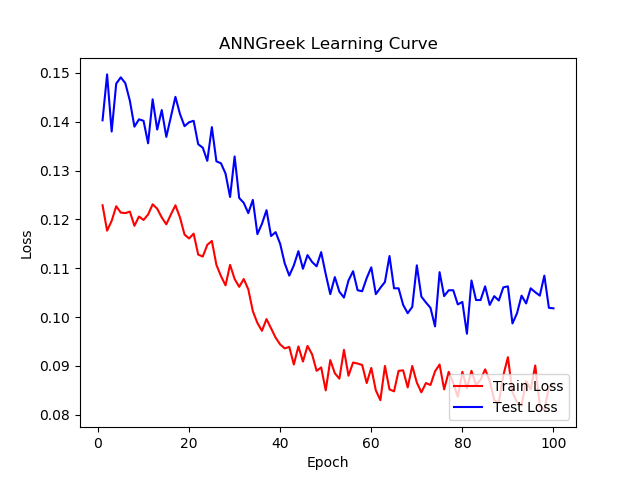
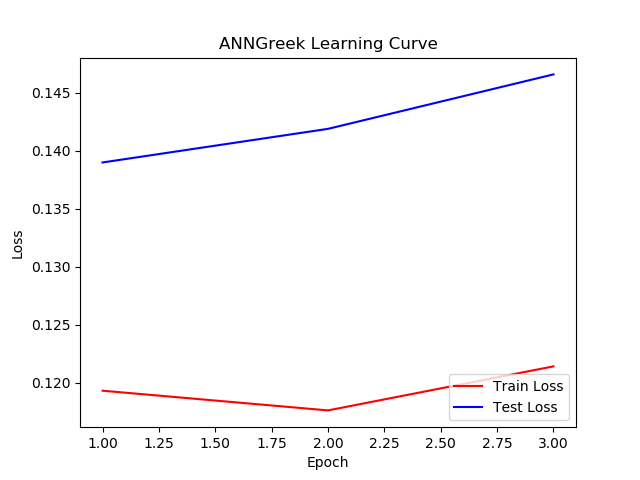
Reworked init and plot. Modules now can store training parameters.

diff --git a/Applications/power_GEF_14/top_level.py b/Applications/power_GEF_14/top_level.py
@@ -3,6 +3,7 @@ import torch
 import torchvision.datasets as tdata
 import torchvision.transforms as tTrans
 import os
+import copy
 import torch.nn as nn
 import numpy as np
 
@@ -17,9 +18,27 @@ from  Solvers import sgd
 from Datasets import GEF_Power
 from Architecture import MLR, ann_forward, ann_greek
 from Tools import trainer
-print("Hello from power_GEF_14!")
 
-def init(model = None, quantiles = [0.9], device = "cpu", trainDataRange = [0, 76799], testDataRange = [76800, 0], batchSize = 1000):
+# ================================================================================================================
+# Start of Functions
+# ================================================================================================================
+
+def init_optim(modelParams, optimParams = dict(name="SGD", params=dict(lr=0.1,momnt=0.5,wDecay=0.9))):
+
+    # Initialize the optimizer Template with the parameters of
+    if optimParams["name"] == "SGD":
+        optimTemplate = sgd.SGD(modelParams, weight_decay = optimParams["params"]["wDecay"][0],
+                                lr=optimParams["params"]["lr"][0], momentum=optimParams["params"]["momnt"][0])
+    else:
+        optimTemplate = sgd.SGD(modelParams, weight_decay = optimParams["params"]["wDecay"][0],
+                                lr=optimParams["params"]["lr"][0], momentum=optimParams["params"]["momnt"][0])
+
+    return optimTemplate
+
+# End of init_optim
+#-----------------------------------------------------------------------------------------------------
+
+def init(model = None, optimParams = dict(name="SGD", params=dict(lr=0.1,momnt=0.5,wDecay=0.9)), quantiles = [0.9], device = "cpu", trainDataRange = [0, 76799], testDataRange = [76800, 0], batchSize = 1000):
     ''' Description: This function handles the model creation with the chosen parameters and
                      the data loading with chosen batch size and train/test split.  
 
@@ -34,19 +53,33 @@ def init(model = None, quantiles = [0.9], device = "cpu", trainDataRange = [0, 7
     # Architecture specifics ------------------------------------------------------
 
     # Model Declaration 
+    # Generate as many models as there are parameters.
+    models = []
+    # Rename the parameter lists, loccaly, for ease of use.
+    lrs     = optimParams['params']['lr']
+    momnts  = optimParams['params']['momnt']
+    wDecays = optimParams['params']['wDecay']
+    # Compute the total num of models. Might be usefull.
+    numOfModels = len(lrs)*len(momnts)*len(wDecays)
     outputSize = len(quantiles)
-    print("Creating Model: {} at device: {}" .format(model, device))
-    if model == "ANNGreek":
-        model = ann_greek.ANNGreek(59, outputSize).to(device)
-    elif model == "MLRBIU":
-        model = ann_forward.ANNLFS().to(device)
-    elif model == "MRLSimple": 
-        model = MLR.LinearRegression(25).to(device)
-    elif "GLMLF" in model:
-        model = MLR.GLMLFB(model, outputSize).to(device)
-    print(model.get_model_descr())
+    idx = 0
+    for l in range(len(lrs)):
+        for m in range(len(momnts)):
+            for w in range(len(wDecays)):
+                if model == "ANNGreek":
+                    models.append( ann_greek.ANNGreek(59, outputSize, optimParams['name'],
+                                                      lr=lrs[l],momnt=momnts[m], wDecay=wDecays[w]).to(device))
+                elif model == "MLRBIU":
+                    models.append(ann_forward.ANNLFS().to(device))
+                elif model == "MRLSimple": 
+                    models.append( MLR.LinearRegression(25).to(device))
+                elif "GLMLF" in model:
+                    models.append( MLR.GLMLFB(model, outputSize).to(device))
+                print("Creating Model: {}@{} at device: {}" .format(model,hex(id(models[idx])), device))
+                idx += 1
     # ---|
-
+    # Initialize the optimizer Template with the parameters of
+    optimTemplate = init_optim(models[0].parameters(), optimParams)
     # -------------------------------------------------------------------------------
     # Data Loading Specifics --------------------------------------------------------
 
@@ -60,9 +93,9 @@ def init(model = None, quantiles = [0.9], device = "cpu", trainDataRange = [0, 7
     # GEF_Power.reshape_and_save("./Data/GEF/Load/Task 1/L1-train.csv", as = "ANNGReek") 
     # dataPath = dir_path + "/../../Data/GEF/Load/Task 1/L1-train.csv"
     dataPath = None
-    trainSet = GEF_Power.GefPower(dataPath, toShape = model.descr, transform =
+    trainSet = GEF_Power.GefPower(dataPath, toShape = models[0].descr, transform =
                                   "normalize",dataRange= trainDataRange) 
-    testSet = GEF_Power.GefPower(dataPath, toShape = model.descr, transform =
+    testSet = GEF_Power.GefPower(dataPath, toShape = models[0].descr, transform =
                                   "normalize",dataRange= testDataRange) 
 
     # Tell the Loader to bring back shuffled data, use 1 or more worker threads and pin-memory
@@ -74,7 +107,7 @@ def init(model = None, quantiles = [0.9], device = "cpu", trainDataRange = [0, 7
     print(len(testLoader.dataset))
     print(trainSet.__getitem__(0))
 
-    return model, trainLoader, testLoader 
+    return models, optimTemplate, trainLoader, testLoader 
 # ------------------------------------------------------------------------------------------------------------------
 # Main Function 
 # parameter and model selection, here.
@@ -91,7 +124,7 @@ def main():
     # lines
 
     # Variable Definitions
-    epochs = 100
+    epochs = 3
     batchSize = 1000
     quantiles = [0.9]
     # Loss Function Declaration and parameter definitions go here.
@@ -107,25 +140,27 @@ def main():
     loss = trainer.QuantileLoss(quantiles)
     # loss = nn.MSELoss()
     # ---|
+    # Optimizer Declaration and parameter definitions go here.
+    gamma = [0.01, 0.3, 0.5]
+    momnt = [0.7]
+    wDecay= [0.1]
+    totalModels = len(gamma) * len(momnt) * len(wDecay)
+    optimParams = dict(name = 'SGD', params = dict(lr=gamma, momnt = momnt, wDecay=wDecay))
+    # ---|
 
     # Pass this dictionary as arg input to the init function. The data ranges should be relevant
     # To the raw data files input. All offsetting etc is taken care of from the dataset code
-    dataLoadArgs  = dict(model = "ANNGreek", quantiles = quantiles, device = device, trainDataRange
-                         = [0, 76799], testDataRange = [76800, 0], batchSize = batchSize)
+    dataLoadArgs  = dict(model = "ANNGreek", optimParams = optimParams, quantiles =quantiles, device = device, trainDataRange = [0, 76799], testDataRange = [76800, 0], batchSize = batchSize)
     # File, plot and log saving variables. Leaveto None, to save to default locations
     logSavePath  = None
     plogSavePath = None
     # ---|
-
-    # Get the model, and train and test data loader objects here
+    
+    # Get the models, optimizer, train and test data loader objects here
+    # Models are initilized with the same weights. The number of models returned is
+    # a function of the combinization of optimizer parameters lr*moment*weight decay.
     # Note: Do not change.
-    model, trainLoader, testLoader = init(**dataLoadArgs)
-
-    # Optimizer Declaration and parameter definitions go here.
-    gamma = 0.01
-    momnt = 0.7
-    optim = sgd.SGD(model.parameters(), weight_decay = 0.1, lr=gamma, momentum=momnt)
-    # ---|
+    modelsList, optimTemplate, trainLoader, testLoader = init(**dataLoadArgs)
     
     # End of parameter Definitions. Do not alter below this point.
     # ==========================================================================
@@ -134,21 +169,39 @@ def main():
     args = []
     args.append(epochs)
     args.append(batchSize)
+    # List that holds all histories. 
+    modelHistories = [modelsList[0].history for i in range(totalModels)]  
 
-    # Invoke training an Evaluation
-    model.train(args,device, trainLoader, testLoader,optim, loss)
-    # ---|
+    # For each parameter evaluate a model. Each models keep track of its history, and the optimizer
+    # params with which it was trained.  
+    idx = 0
+    for l in range(len(gamma)):
+        for m in range(len(momnt)):
+            for w in range(len(wDecay)):
+                model = modelsList[idx]
+                print("Model: {}@ {}. Lr: {} | Mom: {} | wDec: {}\n".format(idx,hex(id(model)), gamma[l], momnt[m],
+                                                                      wDecay[w]))
+                # NOTE: Deep copy and set parameters seems to not work. When used it probably
+                # does not update the iptimizer to the new model's paramaters. Mystyriously the loss
+                # is reduced phenomenally by this. Why?
+                # optim = copy.deepcopy(optimTemplate)
+                # optim.set_params(model.parameters(), lr=gamma[l], momentum=momnt[m], weight_decay=wDecay[w])
+                optim = init_optim(model.parameters(), optimParams)
+                # Invoke training an Evaluation
+                model.train(args,device, trainLoader, testLoader,optim, loss)
+                # ---|
 
-    # Report saving and printouts go here
-    # print("Learned model:\n" + model.get_model_descr())
-    print("Training history:")
-    print(model.history)
-    model.save_history(logSavePath)
-    # plotArgs = []
-    model.plot()
-    lossDescr =  loss.descr if  isinstance(loss, trainer.QuantileLoss) else "MSE"
-    titleExt = optim.name + "-lr-" +  str(optim.lr) + "-momnt-" + str(optim.momnt)  +"-"+lossDescr
-    model.save_plots(plogSavePath, titleExt)
+                # Report saving and printouts go here
+                print("Training history:")
+                print(model.history)
+                model.save_history(logSavePath)
+                modelHistories[idx] = model.history
+                # plotArgs = []
+                model.plot()
+                lossDescr =  loss.descr if  isinstance(loss, trainer.QuantileLoss) else "MSE"
+                titleExt = optim.name + "-lr-" +  str(optim.lr) + "-momnt-" + str(optim.momnt)  +"-"+lossDescr
+                model.save_plots(plogSavePath, titleExt)
+                idx += 1
     # ---|
 
 #  End of main

diff --git a/Code/Tools/plotter.py b/Code/Tools/plotter.py
@@ -3,6 +3,10 @@ import matplotlib.axes  as  ax
 import numpy as np
 import os
 import sys
+from pathlib import Path
+from os.path import isdir, join, isfile
+from os import listdir
+
 
 dir_path = os.path.dirname(os.path.realpath(__file__))
 
@@ -13,23 +17,47 @@ import regression_idx as ridx
 
 
 epochs = 0
-# Sanity Print
-# print(reps)
 
-def plot_regressor(filePath, args, title):
+def get_files_from_path(targetPath, expression):
 
-    files = [filePath]
+    # Find all folders that are note named Solution
+    d = [f for f in listdir(targetPath) if (isdir(join(targetPath, f)) and "Solution" not in f)]  
+    f = [f for f in listdir(targetPath) if (isfile(join(targetPath, f)) and "Solution" not in f)]  
+
+    # initialize a list with as many empty entries as the found folders.
+    l = [[] for i in range(len(d))]
+    # Create a dictionary to store the folders and whatever files they have
+    contents = dict(zip(d,l))
+    contents['files'] = f
+    # print(contents)
+    # Pupulate the dictionary with files that match the expression, for each folder.
+    for folder, files in contents.items():
+        stuff = sorted(Path(join(targetPath, folder)).glob(expression))
+        for s in stuff:
+            files.append(os.path.split(s)[1] )
+        # print(folder, files)
+    for files in contents['files']:
+        stuff = sorted(Path(join(targetPath, files)).glob(expression))
+    return contents
+
+def plot_regressor(filesPath, args, title):
+
+    if not isinstance(filesPath, list):
+        files = [filePath]
+    else:
+        files = filesPath
     reps = []
     for i,f in enumerate(files):
         reps.append([[] for i in range(ridx.logSize)])
 
-        # print(i)
-        # print("Size of reps list: {} {}".format(len(reps),len(reps[0])))
+        print(i)
+        print("Size of reps list: {} {}".format(len(reps),len(reps[i])))
         with open(f, 'r') as p:
             # print("i is {}".format(i))
             for j,l in enumerate(p):
                 # Ignore last character from line parser as it is just the '/n' char.
-                report = l[:-1].split(' ')
+                report = l[:-2].split(' ')
+                print(report)
                 reps[i][ridx.trainMAE].append(report[ridx.trainMAE])
                 reps[i][ridx.trainMAPE].append(report[ridx.trainMAPE])
                 reps[i][ridx.trainLoss].append(report[ridx.trainLoss])
@@ -95,8 +123,15 @@ def plot_all_in_one(reps, epochs, title):
 def main():
     title = 'Multi-Linear Regression MSE Loss vs Epoch plot'
     # filePath = "../../Applications/power_GEF_14/Logs/log1.txt"
-    filePath = "../../Applications/power_GEF_14/Logs/log1.txt"
-    plot_regressor(filePath, 1, title)
+    filePath = "../../Applications/power_GEF_14/Logs/ANNGreek"
+
+    f = get_files_from_path(filePath, "*log1.txt")
+    print(f)
+    files = []
+    for i in f['files']:
+        files.append(join(filePath, i)) 
+    print(files)
+    plot_regressor(files, 1, title)
     plt.savefig("../../Applications/power_GEF_14/Plots/MLR-25-epoch.png")
     plt.close()
 

diff --git a/Code/Architecture/ann_greek.py b/Code/Architecture/ann_greek.py
@@ -23,7 +23,6 @@ import plot_idx as pidx
 # End Of imports -----------------------------------------------------------------
 # --------------------------------------------------------------------------------
 
-
 sign = lambda x: ('+', '')[x < 0]
 # CapWords naming convention for class names
 # If there is a n acronym such as ANN, it is all uppercase
@@ -45,8 +44,8 @@ class ANNGreek(nn.Module):
         Returns:    A single value prediction of the load.
     '''
 
-    history = [[] for i in range(ridx.logSize)]
-    def __init__(self, inSize = 2, outSize = 1, loss = nn.MSELoss()): 
+    def __init__(self, inSize = 2, outSize = 1, loss = nn.MSELoss(), optim = "SGD", lr=0.1, momnt=0,
+                wDecay=0): 
         super(ANNGreek, self).__init__() 
         self.firstPass = 1
         self.linear = nn.Linear(inSize, 24)  # 10 nodes are specified in the thesis.
@@ -55,6 +54,11 @@ class ANNGreek(nn.Module):
         self.descr = "ANNGreek" 
         # The list below holds any plotted figure of the model
         self.plots = [None] * pidx.plotSize
+        self.history = [[] for i in range(ridx.logSize)]
+        self.optim = optim
+        self.lr = lr
+        self.momnt = momnt
+        self.wDecay = wDecay
 
     def forward(self, x): 
         x = F.relu(self.linear(x)) 
@@ -89,7 +93,9 @@ class ANNGreek(nn.Module):
             # Create the Target Directory if does not exist.
             if not os.path.exists(saveFile):
                 os.mkdir(saveFile)
-            saveFile += "/log1.txt"
+            saveFile += '/'
+            sep = '-'
+            saveFile += sep.join((str(self.lr),str(self.momnt), str(self.wDecay), "log1.txt"))
 
         trainer.save_log(saveFile, self.history)
 
@@ -100,7 +106,7 @@ class ANNGreek(nn.Module):
         trainerArgs = args.copy()
         testerArgs = args.copy()
         testerArgs[1] *= 4 
-
+        
         for e in range(epochs):
            trainerArgs[0] = e 
            testerArgs[0] = e 

diff --git a/Code/Solvers/sgd.py b/Code/Solvers/sgd.py
@@ -65,7 +65,29 @@ class SGD(Optimizer):
         if nesterov and (momentum <= 0 or dampening != 0):
             raise ValueError("Nesterov momentum requires a momentum and zero dampening")
         super(SGD, self).__init__(params, defaults)
-        
+
+
+    def set_params(self, params = None, lr = None, momentum = None, dampening = None, weight_decay = None, nesterov
+                  = None):
+
+        lrIn = lr if lr is not None else self.lr 
+        momentumIn = momentum if momentum is not None else self.momnt
+        dampeningIn = dampening if dampening is not None else self.param_groups[0]['dampening']
+        WDecayIn = weight_decay if weight_decay is not None else self.param_groups[0]['weight_decay']
+        nesterovIn = nesterov if nesterov is not None else self.param_groups[0]['nesterov']
+        params = params if params is not None else self.param_groups[0]['params']
+        self.name = "SGD"
+        self.lr = lrIn
+        self.momnt = momentumIn
+        print(WDecayIn, nesterovIn, params, self.name)
+
+
+        defaults = dict(lr=lrIn, momentum=momentumIn, dampening=dampeningIn,
+                        weight_decay=WDecayIn, nesterov=nesterovIn)
+        if nesterovIn and (momentumIn <= 0 or dampeningIn != 0):
+            raise ValueError("Nesterov momentum requires a momentum and zero dampening")
+        super(SGD, self).__init__(params, defaults)
+
     def __setstate__(self, state):
         super(SGD, self).__setstate__(state)
         for group in self.param_groups:
